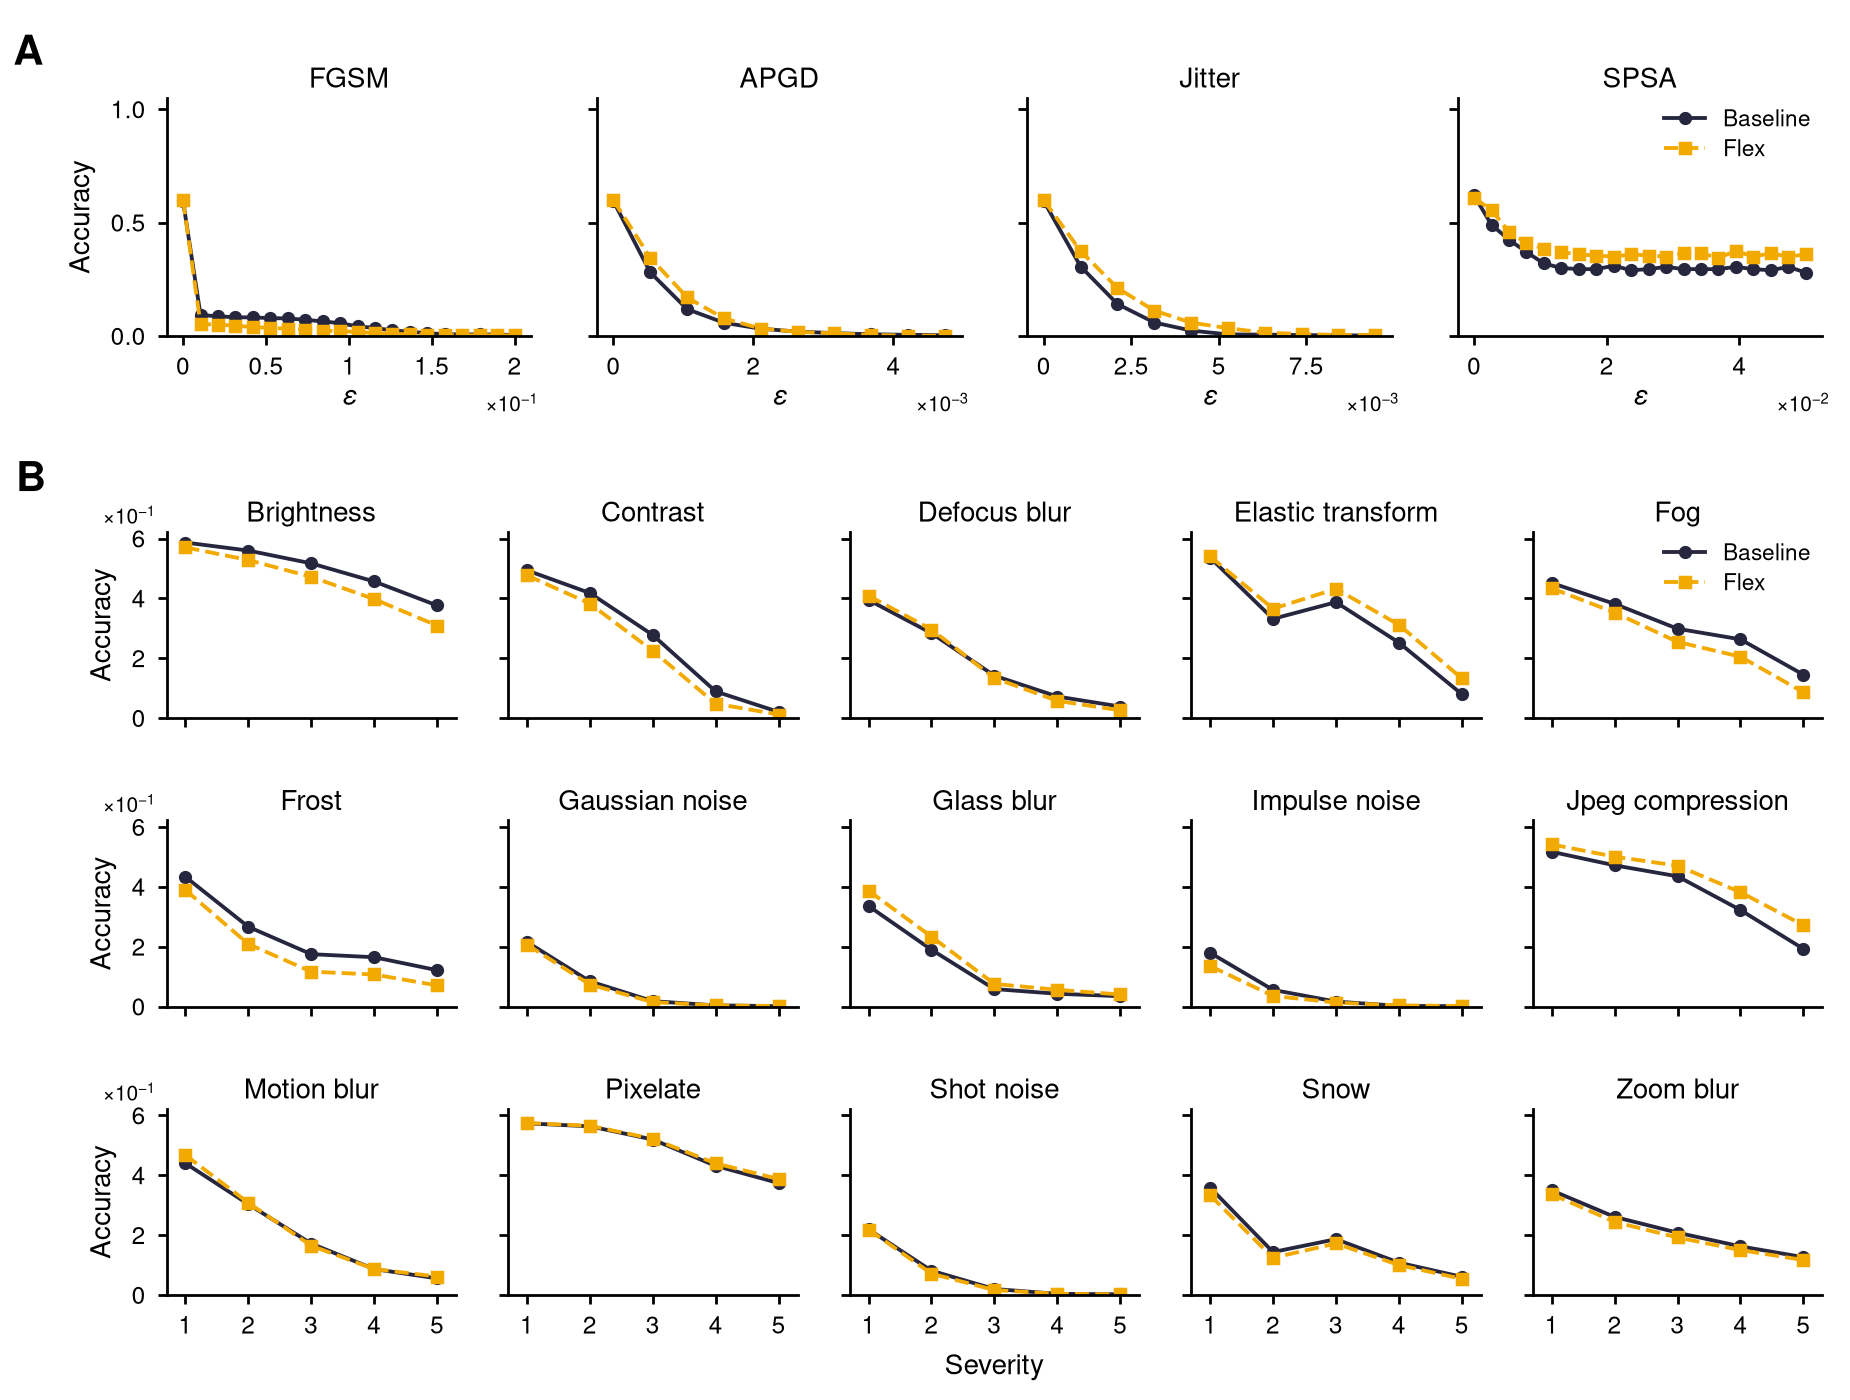
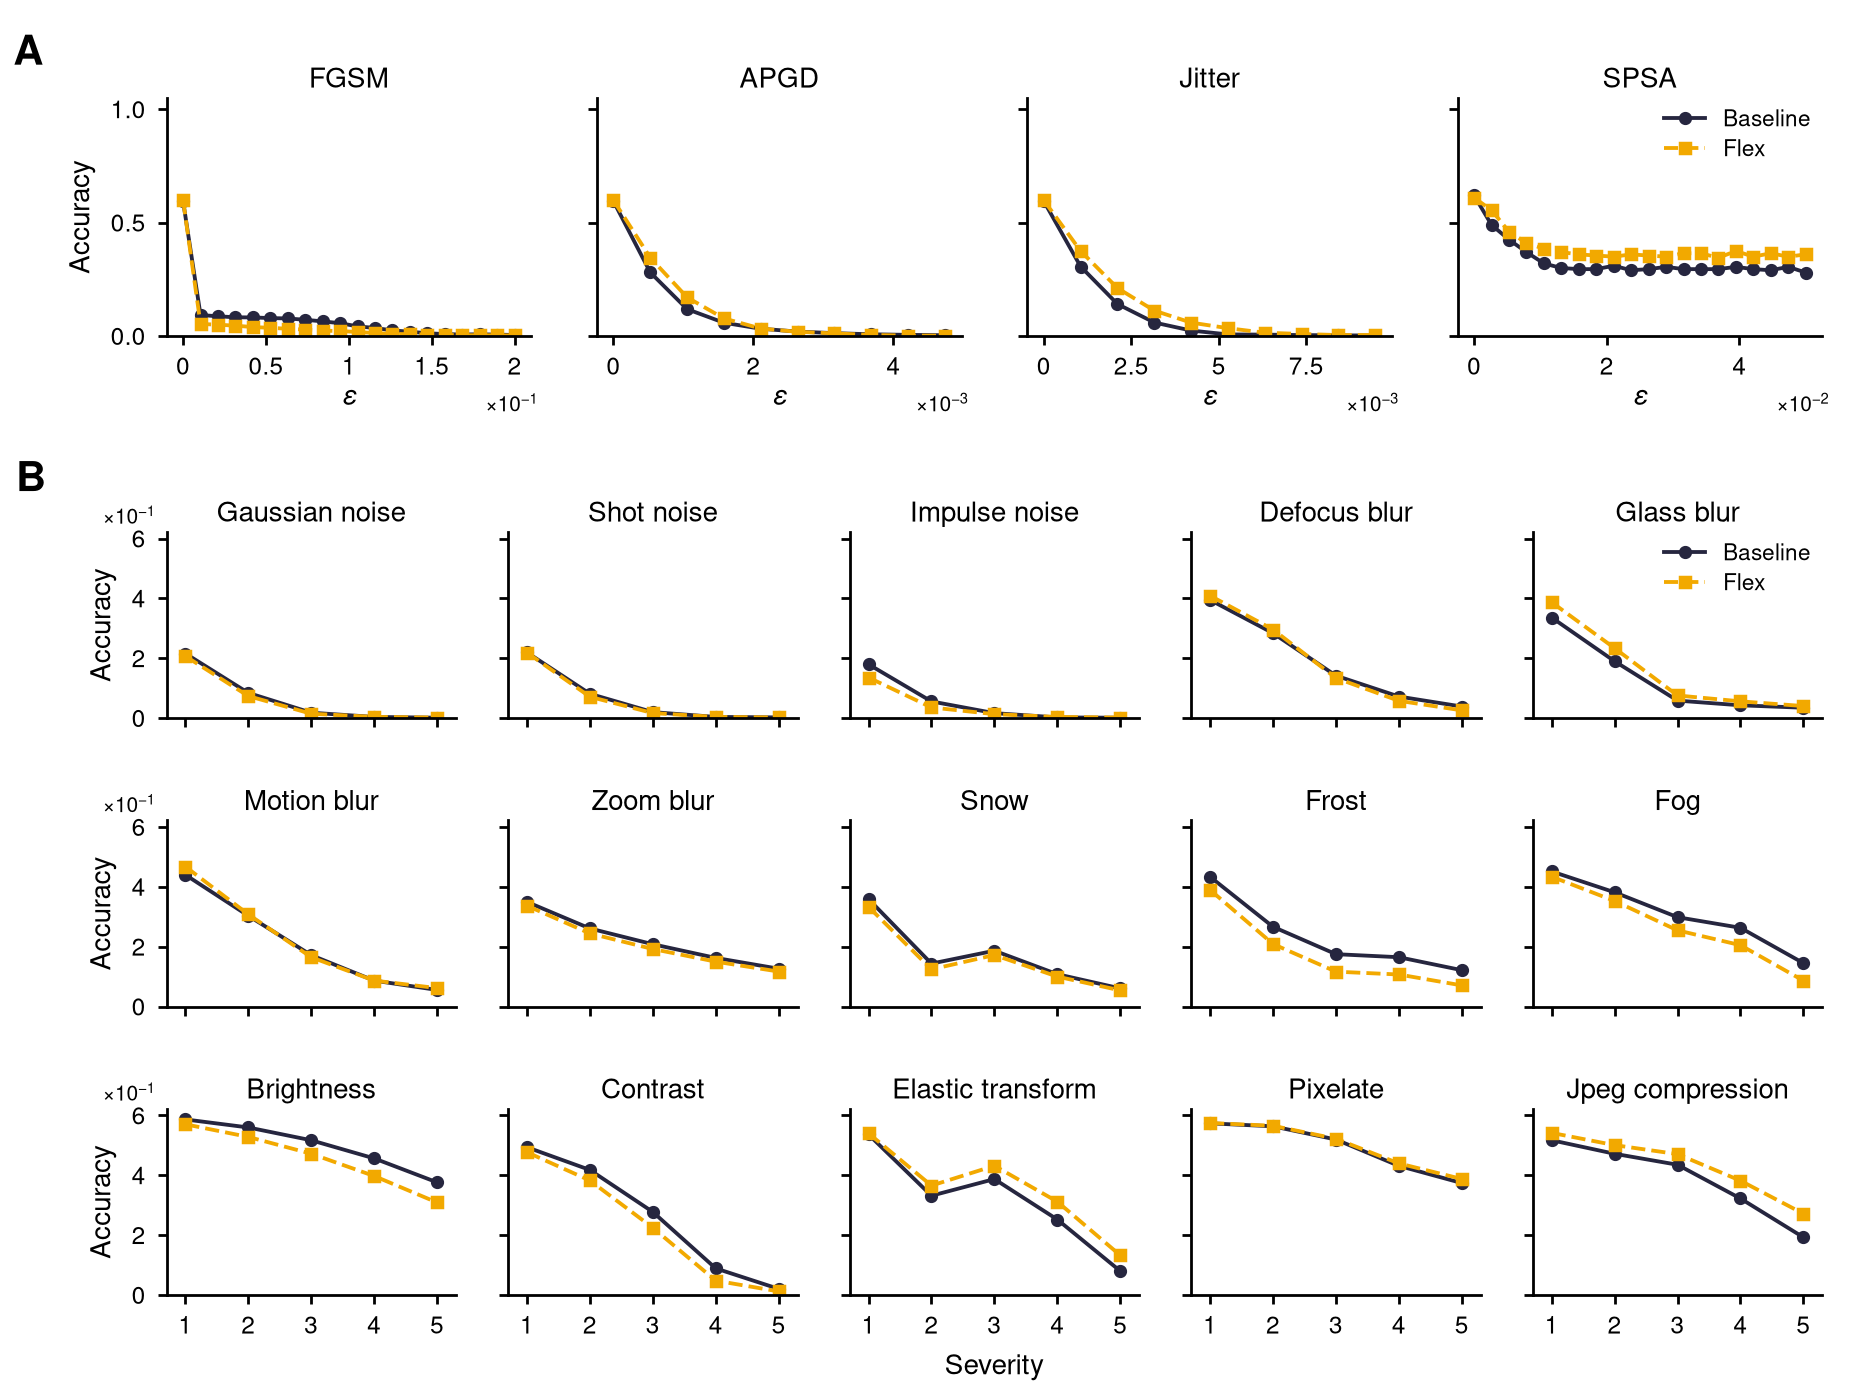
Fig3B: corruption grid in ImageNet-C category order
Replace the alphabetical 3x5 grid with the Hendrycks & Dietterich category
order: noise (gaussian, shot, impulse), blur (defocus, glass, motion,
zoom), weather (snow, frost, fog, brightness), digital (contrast, elastic,
pixelate, jpeg), filled row-major.

Claude-Session: https://claude.ai/code/session_017yGu9aiFwdmGw97u5QFtnJ

diff --git a/scripts/reproduce_manuscript_styled.py b/scripts/reproduce_manuscript_styled.py
@@ -8,7 +8,8 @@ House style (read off the compiled manuscript):
   baseline/vanilla = solid navy line + filled circles ; flex = dashed orange
   line + filled squares ; axes use x10^-1 offset scaling ; chip labels
   ("Baseline"/"Flex") ; plasma colormap for feature maps (2E), shaded surfaces
-  for loss landscapes (4C) ; 3x5 alphabetical corruption grid (3A) ;
+  for loss landscapes (4C) ; 3x5 category-ordered corruption grid (3B:
+  noise, blur, weather, digital) ;
   1x4 attack row (3B) ; 2x2 per-layer grid (5C) ; routing statistics (6).
 
 Data: every input is read from a staging directory (default
@@ -73,10 +74,12 @@ LAYER_DEPTH = np.array([0, 2, 6, 8, 12, 13, 15])
 VGG_LAYER_ID = {0: "1.1", 3: "1.2", 7: "2.1", 10: "2.2", 14: "3.1", 17: "3.2",
                 20: "3.3", 24: "4.1", 27: "4.2", 30: "4.3", 34: "5.1",
                 37: "5.2", 40: "5.3"}
-CORR_ALPHA = ["brightness", "contrast", "defocus_blur", "elastic_transform", "fog",
-              "frost", "gaussian_noise", "glass_blur", "impulse_noise",
-              "jpeg_compression", "motion_blur", "pixelate", "shot_noise", "snow",
-              "zoom_blur"]
+# ImageNet-C category order: noise, blur, weather, digital artifacts
+# (Hendrycks & Dietterich 2019); fills the 3x5 grid row-major.
+CORR_ORDER = ["gaussian_noise", "shot_noise", "impulse_noise",
+              "defocus_blur", "glass_blur", "motion_blur", "zoom_blur",
+              "snow", "frost", "fog", "brightness",
+              "contrast", "elastic_transform", "pixelate", "jpeg_compression"]
 
 
 # ------------------------------------------------------------------ style helpers
@@ -600,7 +603,7 @@ def fig3(tag):
         ax.tick_params(labelsize=7, length=2.5)
 
     axB0 = None
-    for i, c in enumerate(CORR_ALPHA):
+    for i, c in enumerate(CORR_ORDER):
         r, k = divmod(i, 5)
         ax = fig.add_subplot(gsB[r, k], sharey=axB0)
         if axB0 is None:
